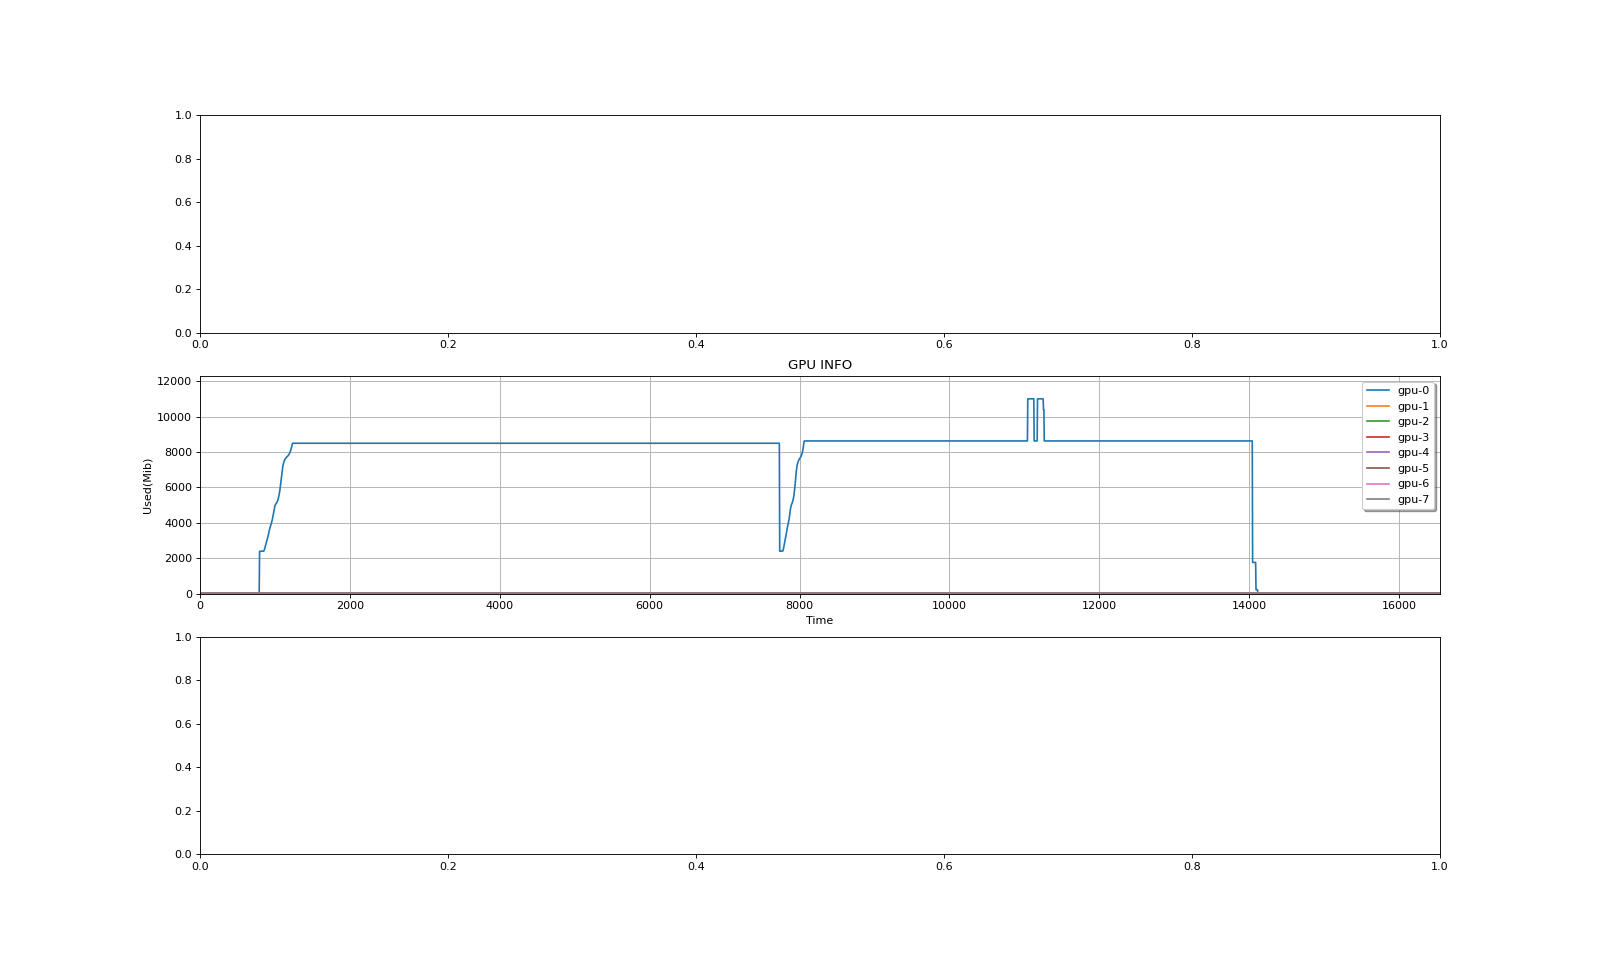
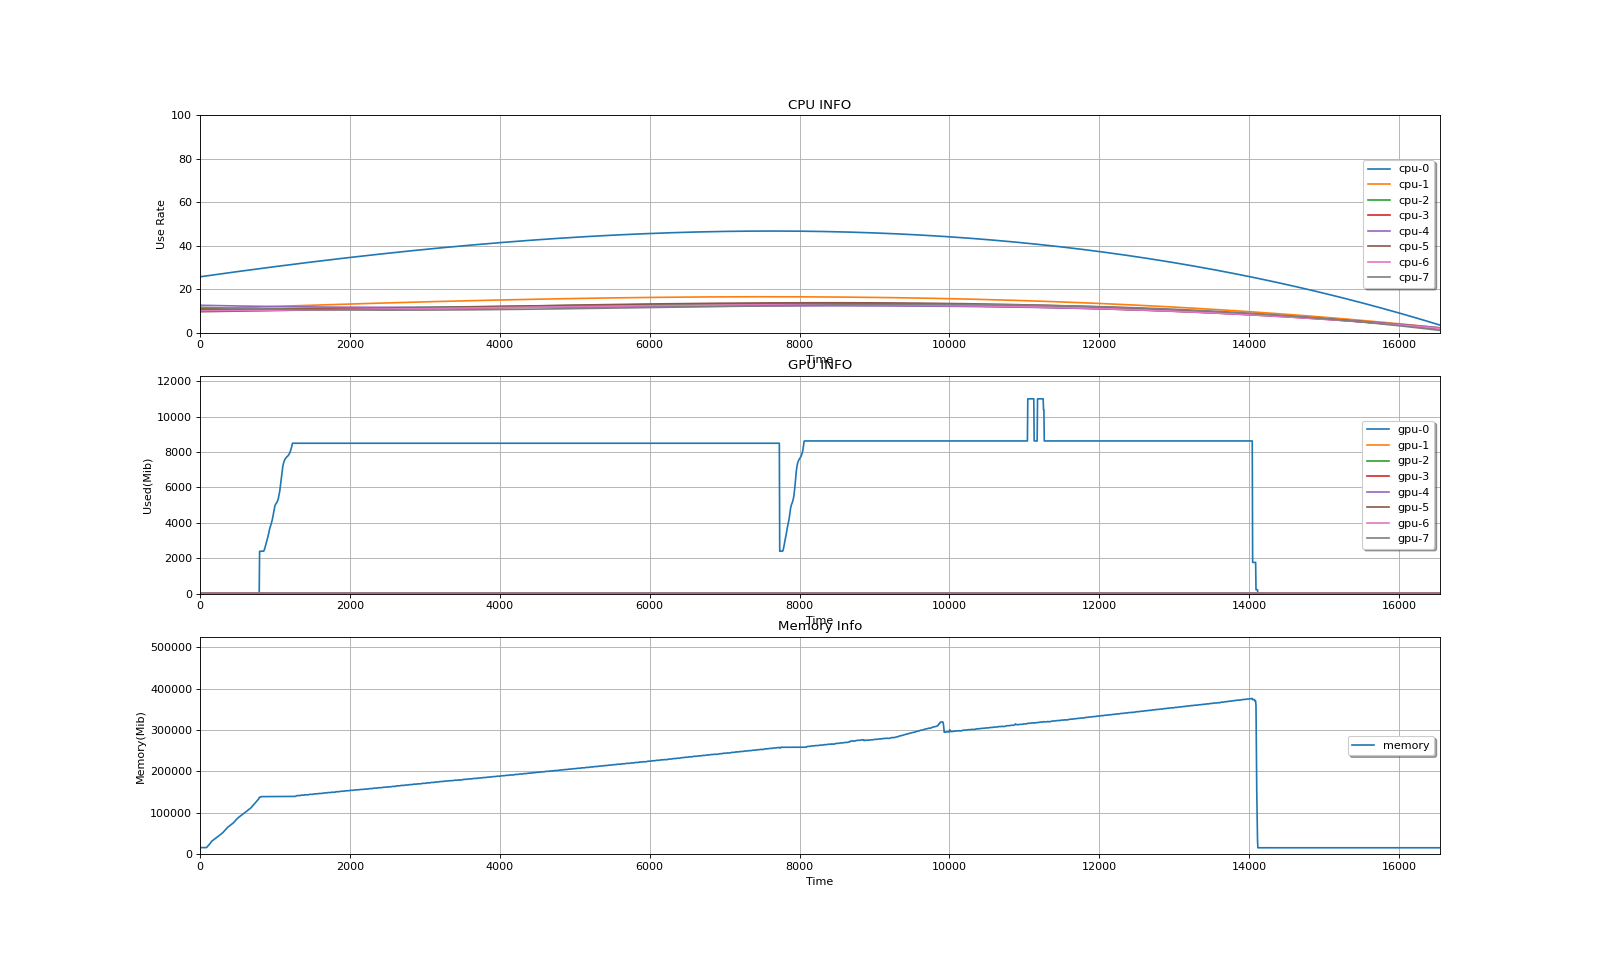
add: gpu draw func

diff --git a/cpu-gpu-mem-monitor.py b/cpu-gpu-mem-monitor.py
@@ -81,7 +81,7 @@ class CpuGpuMemoryInfo(object):
             self.cpu_subplot.autoscale()
             self.cpu_subplot.set_ylim(0, 100)
             # 设置图例位置,loc可以为[upper, lower, left, right, center]
-            self.cpu_subplot.legend(loc='best', shadow=True)
+            self.cpu_subplot.legend(loc='right', shadow=True)
 
             # 获取显存信息
             for gpu_ind in range(self.gpu_nums):
@@ -104,7 +104,7 @@ class CpuGpuMemoryInfo(object):
             self.gpu_subplot.autoscale()
             self.gpu_subplot.set_ylim(0, self.total_gpu_mem_size)
             # 设置图例位置,loc可以为[upper, lower, left, right, center]
-            self.gpu_subplot.legend(loc='best', shadow=True)
+            self.gpu_subplot.legend(loc='right', shadow=True)
 
             # 获取内存信息
             mem_info = psutil.virtual_memory()
@@ -120,7 +120,7 @@ class CpuGpuMemoryInfo(object):
             self.mem_subplot.autoscale()
             self.mem_subplot.set_ylim(0, mem_info.total / 1024 / 1024)
             # 设置图例位置,loc可以为[upper, lower, left, right, center]
-            self.mem_subplot.legend(loc='best', shadow=True)
+            self.mem_subplot.legend(loc='right', shadow=True)
 
             # 输出采样次数
             if (self.sample_nums % 10 == 0 and self.sample_nums != 0):
@@ -216,10 +216,10 @@ class CpuGpuMemoryInfo(object):
             self.cpu_subplot.plot(x_list_new, y_list_new, label='cpu-' + str(i))
         
         # 坐标自动调整
-        self.cpu_subplot.autoscale()
+        self.cpu_subplot.set_xlim(0, x_list[len(x_list) - 1])
         self.cpu_subplot.set_ylim(0, 100)
         # 设置图例位置,loc可以为[upper, lower, left, right, center]
-        self.cpu_subplot.legend(loc='best', shadow=True)
+        self.cpu_subplot.legend(loc='right', shadow=True)
         print("finished draw cpu image")
 
     def draw_gpu_image(self):
@@ -248,17 +248,33 @@ class CpuGpuMemoryInfo(object):
 
             self.gpu_subplot.plot(x_list, y_list, label='gpu-' + str(i))
             # self.gpu_subplot.plot(x_list_new, y_list_new, label='gpu-' + str(i))
-        # self.gpu_subplot.autoscale()
+        
         self.gpu_subplot.set_xlim(0, x_list[len(x_list) - 1])
         self.gpu_subplot.set_ylim(0, 12288)
         # 设置图例位置,loc可以为[upper, lower, left, right, center]
-        self.gpu_subplot.legend(loc='best', shadow=True)
+        self.gpu_subplot.legend(loc='right', shadow=True)
 
     def draw_mem_image(self):
         """
         memory图像
         """
-        pass
+        # 清除原图像
+        self.mem_subplot.cla()
+        self.mem_subplot.set_title("Memory Info")
+        self.mem_subplot.set_xlabel("Time")
+        self.mem_subplot.set_ylabel("Memory(Mib)")
+        self.mem_subplot.grid()
+        data_dict = self.load_data()
+        x_list = ast.literal_eval(data_dict["mem"][0])
+        x_list = [item * self.interval for item in x_list]
+        y_list = ast.literal_eval(data_dict["mem"][1])
+
+        self.mem_subplot.plot(x_list, y_list, label='memory')
+        self.mem_subplot.set_xlim(0, x_list[len(x_list) - 1])
+        self.mem_subplot.set_ylim(0, 512 * 1024)
+        # 设置图例位置,loc可以为[upper, lower, left, right, center]
+        self.mem_subplot.legend(loc='right', shadow=True)
+
 
     def save_image(self):
         """
@@ -282,8 +298,13 @@ class CpuGpuMemoryInfo(object):
             plt.savefig(self.save_location)
             print("save to %s" % self.save_location)
 
+    def draw(self):
+        self.draw_cpu_image()
+        self.draw_gpu_image()
+        self.draw_mem_image()
+        self.save_image()
+
 
 if __name__ == "__main__":
     monitor = CpuGpuMemoryInfo("./out.png")
-    monitor.draw_gpu_image()
-    monitor.save_image()
+    monitor.draw()
